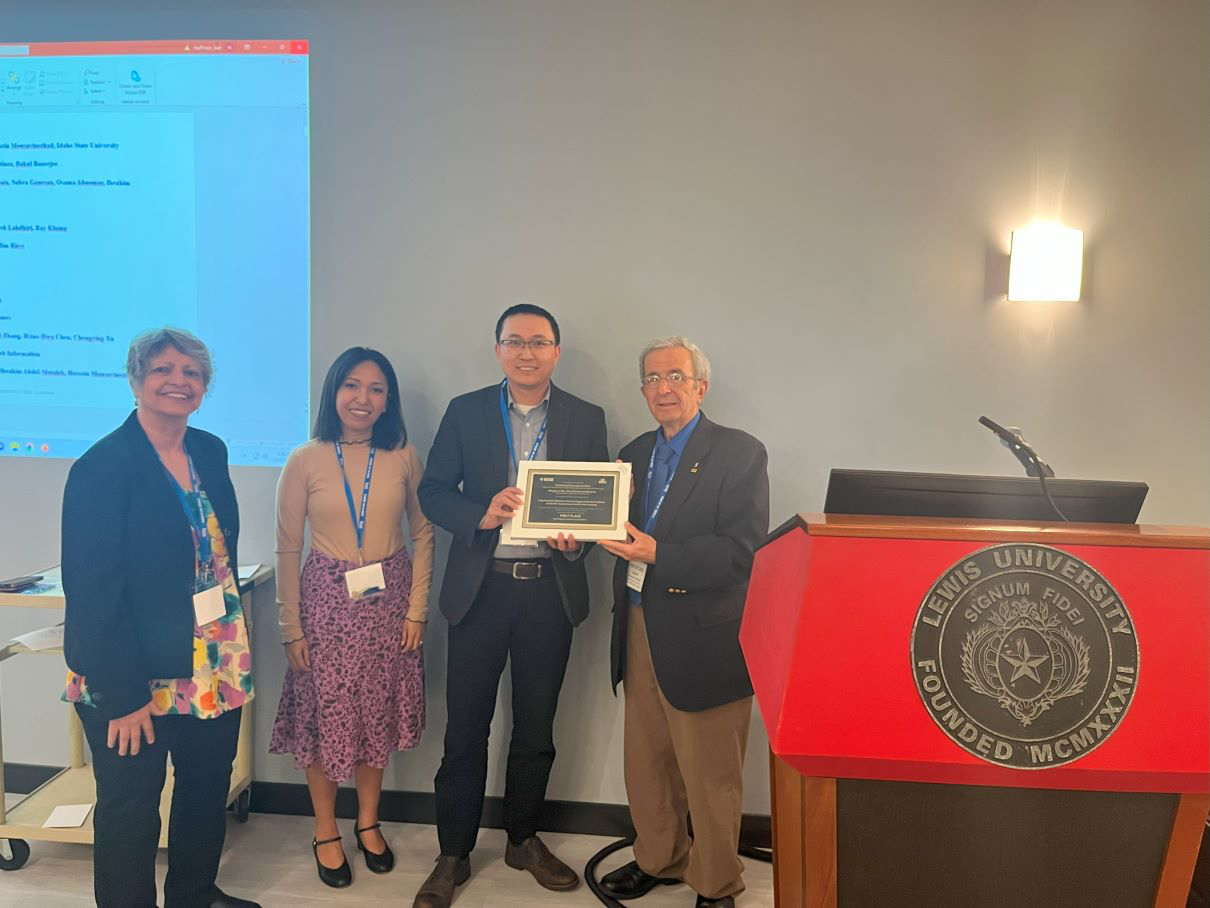
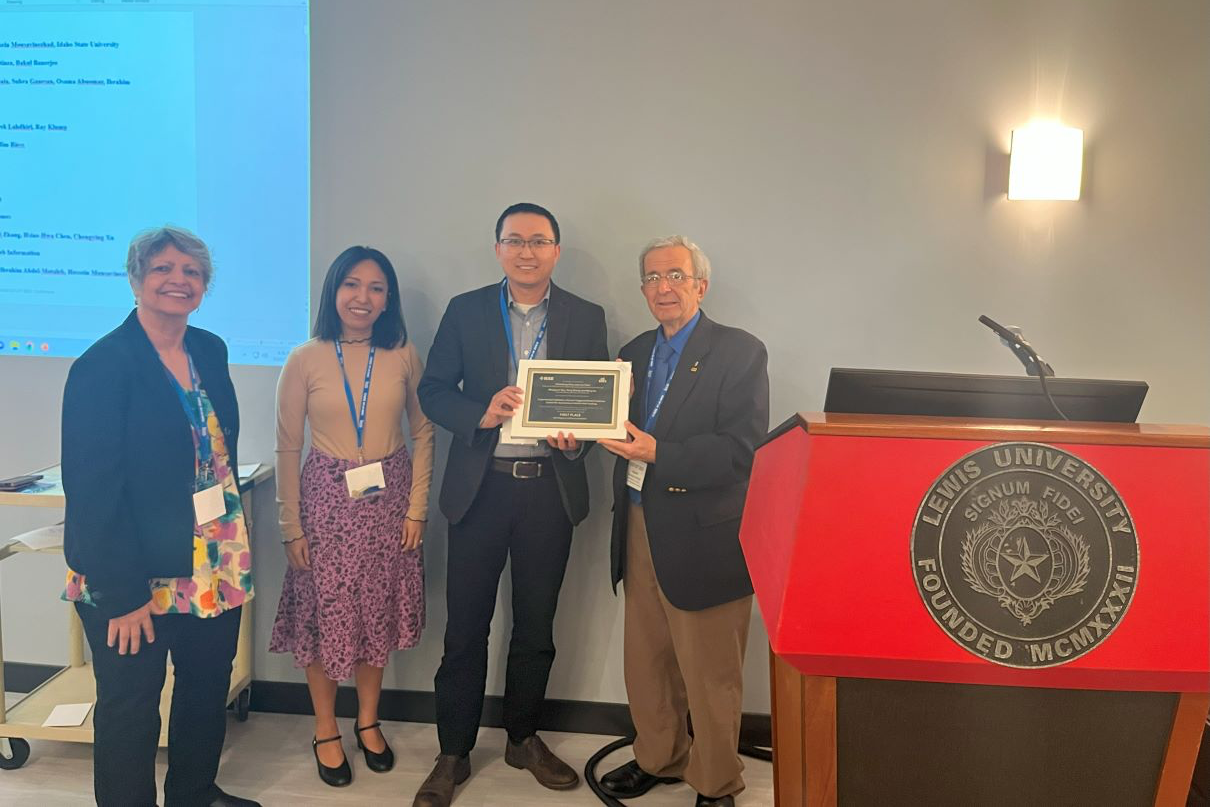
update home page pictures

diff --git a/index.html b/index.html
@@ -86,22 +86,27 @@ Hangzhou China, in 2009, and Ph.D. degree in Electrical Engineering with minor i
 His research interests include advanced control and optimization, model predictive control, artificial intelligence, stochastic hybrid systems, with applications in automotive and energy systems. Dr. Chen is a recipient of the <a href="https://www.nsf.gov/awardsearch/showAward?AWD_ID=2237317" target="_blank">NSF CAREER Award</a> from the National Science Foundation, the <a href="http://www.ieee-ras.org/awards-recognition/publications-awards/69-awards-recognition/society-awards/68-ieee-transactions-on-automation-science-and-engineering-best-paper-award" target="_blank" rel="nofollow">Best Paper Award</a> from <font style="font-variant: small-caps">IEEE Transactions on Automation Science and Engineering</font>, the <a href="eit2023.jpg" target="_blank">Best Paper Award</a> from <font style="font-variant: small-caps">IEEE EIT Conference</font>, the Most Research Active Award, the <a href="OU_Recognition_2023.jpg" target="_blank">Faculty Recognition Award for Research</a>, and the <a href="OU_Recognition_2024.jpg" target="_blank">New Investigator Research Excellence Award</a> from Oakland University, the Publication Achievement Award from Idaho National Laboratory, the Research Excellence Award from Iowa State University, and the Outstanding Student Award from Zhejiang University. He is/was an associate editor or editorial board member for <font style="font-variant: small-caps">IEEE International Conference on Robotics and Automation</font>, <font style="font-variant: small-caps">American Control Conference</font>, <font style="font-variant: small-caps">IEEE Conference on Control Technology and Applications</font>, <font style="font-variant: small-caps">Systems Science & Control Engineering</font>,  <font style="font-variant: small-caps">Modeling, Estimation, and Control Conference</font>, <font style="font-variant: small-caps">Journal of Control and Decision</font>, <font style="font-variant: small-caps">IET Cyber-Systems and Robotics</font>, <font style="font-variant: small-caps">Energy Systems</font>, and <font style="font-variant: small-caps">IFAC Symposium on Advances in Automotive Control</font>. He is currently a Senior Member of the IEEE and a Member of SAE. 
 </p>
 
-<br />
-<br />
-<img src="students/group-20220920-1.jpg", width=450pt style="vertical-align:middle;margin:0px 00px">
-<img src="students/group-20220920-2.jpg", width=450pt style="vertical-align:middle;margin:0px 30px">
-<p>
-<br />
-(Photo credit Robert Hall)
-<br />
 
-<br />
-<img src="eit2023-1.png", width=450pt style="vertical-align:middle;margin:0px 00px">
-<p>
 
-(Best Paper Award at 2023 IEEE EIT)
-<br />
+<table class="imgtable">
 
+
+<tr><td>&nbsp </td></tr>
+
+
+<tr>
+<td align="right"><img src="students/group-20220920-1.jpg",  alt="" width=450pt>&nbsp;<p>(Photo credit Robert Hall)</p></td>
+<td align="right"><img src="students/group-20220920-2.jpg",  alt="" width=450pt>&nbsp;<p>(Photo credit Robert Hall)</p></td>
+</tr>
+
+
+<tr>
+<td align="right"><img src="eit2023-1.png",  alt="" width=450pt>&nbsp;<p>(Best Paper Award at 2023 IEEE EIT)</p></td>
+<td align="right"><img src="OU-FounderDay-2025.jpg",  alt="" width=450pt>&nbsp;<p>(Outstanding Graduate Mentor Award at 2025 OU Founders' Day)</p></td>
+</tr>
+
+
+</table>
 
 <h2><b>News</b></span></font></h2>
 <ul>
